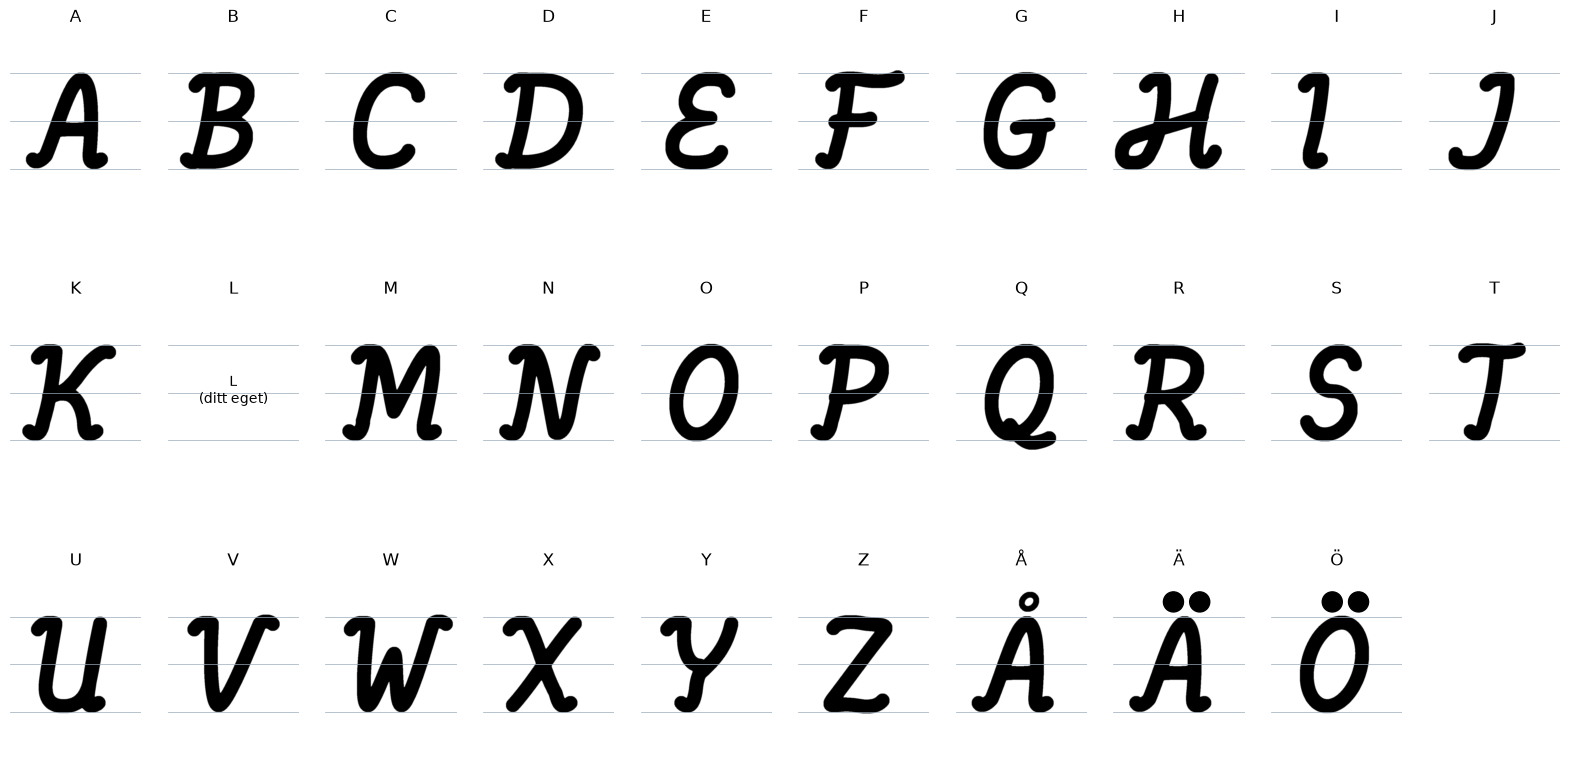
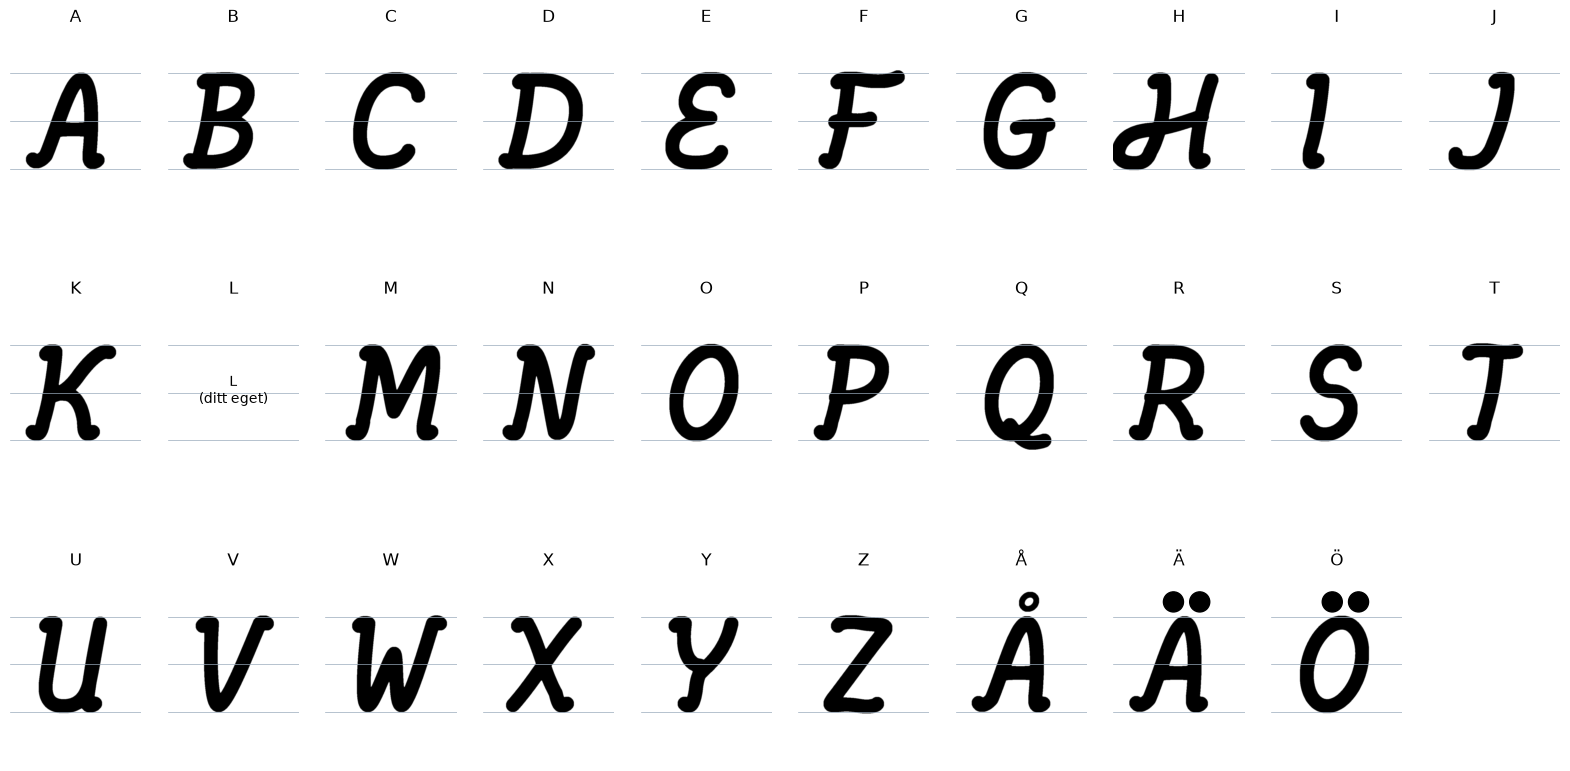
Mindre och mjukare avslutningar på alla versaler, rundare ögla på H
Claude-Session: https://claude.ai/code/session_01G3Fa1qrTuHzte3kfXkaDtX

diff --git a/bokstaver/versaler.py b/bokstaver/versaler.py
@@ -56,8 +56,8 @@ def stam(x, bage=0.03):
 
 # --- Svängar (i samma anda som ditt L och gemenernas fötter) -------------------
 def entre(x, y=HI):
-    """Insväng som på skrivstils-H: kommer in från vänster och går över toppen."""
-    return kedja((x - 0.7, y - 0.25), ((x - 0.57, y + 0.06), (x - 0.25, y + 0.06), (x, y)))
+    """Liten, diskret insväng upptill."""
+    return kedja((x - 0.38, y - 0.1), ((x - 0.3, y + 0.04), (x - 0.12, y + 0.04), (x, y)))
 
 
 def flick(x, y0=0.8, lut=0.0):
@@ -66,16 +66,16 @@ def flick(x, y0=0.8, lut=0.0):
 
 
 def svans(x, y0=0.8, lut=0.0):
-    """Kort, mjuk avslutning åt höger, som slutet på ditt lilla a."""
+    """Liten, mjuk avslutning åt höger, som slutet på ditt lilla a."""
     x1 = x + lut * (y0 - LO - 0.1)
-    return kedja((x, y0), ((x1, LO + 0.08), (x1 + 0.1, LO - 0.04), (x1 + 0.28, LO - 0.02)),
-                 ((x1 + 0.38, LO - 0.01), (x1 + 0.46, LO + 0.04), (x1 + 0.52, LO + 0.1)))
+    return kedja((x, y0), ((x1, LO + 0.06), (x1 + 0.08, LO - 0.03), (x1 + 0.2, LO - 0.02)),
+                 ((x1 + 0.28, LO - 0.01), (x1 + 0.34, LO + 0.02), (x1 + 0.38, LO + 0.07)))
 
 
 def kort_snirkel(x, y0=0.8):
-    """Kort, mjuk avslutning åt vänster (spegling av svans)."""
-    return kedja((x, y0), ((x, LO + 0.08), (x - 0.1, LO - 0.04), (x - 0.28, LO - 0.02)),
-                 ((x - 0.38, LO - 0.01), (x - 0.46, LO + 0.04), (x - 0.52, LO + 0.1)))
+    """Liten, mjuk avslutning åt vänster (spegling av svans)."""
+    return kedja((x, y0), ((x, LO + 0.06), (x - 0.08, LO - 0.03), (x - 0.2, LO - 0.02)),
+                 ((x - 0.28, LO - 0.01), (x - 0.34, LO + 0.02), (x - 0.38, LO + 0.07)))
 
 
 def kort_entre(x, y=HI):
@@ -154,7 +154,7 @@ def E():
 
 def F():
     return stapel(0.55, topp=False, fot="snirkel") + [
-            kedja((-0.1, HI - 0.2), ((0.05, HI + 0.08), (0.6, HI + 0.12), (1.2, HI)),
+            kedja((0.1, HI - 0.1), ((0.15, HI + 0.06), (0.6, HI + 0.12), (1.2, HI)),
                   ((1.8, HI - 0.1), (2.3, HI - 0.06), (2.6, HI + 0.12))),
             vag((0.3, 1.95), (1.75, 2.1), 0.07)]
 
@@ -177,21 +177,22 @@ def H_enkel():
 def H():
     """Skrivstils-H (din skiss): vänster stapel slutar i en ögla som blir ett
     stigande tvärstreck; höger stapel svänger ut åt höger nedtill."""
-    vanster = kedja((-0.15, HI - 0.25), ((-0.02, HI + 0.06), (0.32, HI + 0.08), (0.55, HI)),
+    vanster = kedja((0.17, HI - 0.1), ((0.25, HI + 0.04), (0.43, HI + 0.04), (0.55, HI)),
                     ((0.85, 2.7), (0.78, 1.3), (0.52, 0.7)),
-                    ((0.42, 0.25), (0.05, LO - 0.08), (-0.3, LO - 0.04)),
-                    ((-0.75, LO + 0.02), (-0.85, 1.1), (-0.3, 1.32)),
-                    ((0.3, 1.55), (1.2, 1.78), (2.42, 2.2)))
+                    ((0.46, 0.3), (0.2, LO - 0.08), (-0.15, LO - 0.06)),
+                    ((-0.62, LO - 0.04), (-0.95, 0.5), (-0.78, 1.0)),
+                    ((-0.62, 1.48), (-0.05, 1.6), (0.5, 1.64)),
+                    ((1.1, 1.72), (1.8, 1.95), (2.42, 2.2)))
     hoger = kedja((2.55, HI), ((2.38, 2.8), (2.35, 1.5), (2.42, 0.85)),
-                  ((2.48, LO + 0.05), (2.7, LO - 0.06), (2.92, LO)),
-                  ((3.08, LO + 0.05), (3.18, 0.5), (3.22, 0.72)))
+                  ((2.44, LO + 0.06), (2.52, LO - 0.03), (2.64, LO - 0.02)),
+                  ((2.72, LO - 0.01), (2.78, LO + 0.02), (2.82, LO + 0.07)))
     return [vanster, hoger]
 
 def I():
     return stapel(0.6, fot="flick")
 
 def J_():
-    return [kedja((0.9, HI - 0.2), ((1.1, HI + 0.08), (1.5, HI + 0.08), (1.75, HI)),
+    return [kedja((1.25, HI - 0.08), ((1.3, HI + 0.05), (1.5, HI + 0.08), (1.75, HI)),
                   ((1.95, 2.8), (1.75, 1.6), (1.62, 1.05)),
                   ((1.5, 0.35), (1.1, LO - 0.08), (0.7, LO - 0.06)),
                   ((0.35, LO - 0.04), (0.1, 0.3), (0.12, 0.62)))]
@@ -206,7 +207,7 @@ def M():
     """M i samma anda som skrivstils-H: insvängen går över toppen och direkt ner
     i diagonalen; vänster stapel hänger ner från toppen med en lätt böj."""
     v, h = 0.55, 3.1
-    over = kedja((-0.15, HI - 0.25), ((-0.02, HI + 0.06), (0.3, HI + 0.06), (v, HI)),
+    over = kedja((v - 0.38, HI - 0.1), ((v - 0.3, HI + 0.04), (v - 0.12, HI + 0.04), (v, HI)),
                  ((0.95, HI - 0.02), (1.45, 1.9), (1.75, 1.2)),
                  ((2.05, 1.9), (2.45, HI - 0.02), (2.8, HI)),
                  ((3.0, HI + 0.05), (3.2, 3.2), (h, 0.8)))
@@ -215,11 +216,11 @@ def M():
 def N():
     """N som M: insvängen går över toppen och ner i diagonalen."""
     v, h = 0.55, 2.5
-    over = kedja((-0.15, HI - 0.25), ((-0.02, HI + 0.06), (0.3, HI + 0.06), (v, HI)),
+    over = kedja((v - 0.38, HI - 0.1), ((v - 0.3, HI + 0.04), (v - 0.12, HI + 0.04), (v, HI)),
                  ((0.95, HI - 0.02), (1.7, 1.2), (2.05, LO + 0.05)),
                  ((2.25, LO - 0.06), (h, 0.4), (h, 1.2)),
-                 ((h, 2.4), (h + 0.05, HI + 0.05), (h + 0.35, HI + 0.04)),
-                 ((h + 0.48, HI + 0.03), (h + 0.56, HI - 0.03), (h + 0.6, HI - 0.12)))
+                 ((h, 2.4), (h + 0.03, HI + 0.04), (h + 0.2, HI + 0.04)),
+                 ((h + 0.28, HI + 0.03), (h + 0.33, HI - 0.0), (h + 0.36, HI - 0.05)))
     stam = kedja((v, HI), ((0.52, 2.7), (0.62, 1.5), (0.52, 0.8)))
     return [over, stam, kort_snirkel(0.52, 0.8)]
 
@@ -233,7 +234,7 @@ def P():
 
 def Q():
     return O() + [kedja((1.25, 0.65), ((1.65, 0.2), (2.0, -0.15), (2.4, -0.1)),
-                        ((2.65, -0.06), (2.85, 0.0), (3.0, 0.1)))]
+                        ((2.6, -0.07), (2.72, -0.05), (2.82, 0.0)))]
 
 def R_():
     return P() + [linje((1.05, 1.8), (2.0, 0.8), 0.06), flick(2.0, 0.8, 0.3)]
@@ -253,8 +254,8 @@ def S():
 
 
 def T():
-    return [kedja((0.0, HI - 0.18), ((0.12, HI + 0.08), (0.6, HI + 0.12), (1.2, HI + 0.02)),
-                  ((1.6, HI - 0.04), (1.95, HI - 0.04), (2.2, HI + 0.1))),
+    return [kedja((0.15, HI - 0.08), ((0.2, HI + 0.06), (0.6, HI + 0.12), (1.2, HI + 0.02)),
+                  ((1.6, HI - 0.04), (1.9, HI - 0.03), (2.1, HI + 0.04))),
             linje((1.3, HI), (1.3, 0.85), 0.1), snirkel(1.3, 0.85)]
 
 
@@ -270,7 +271,7 @@ def V():
     return [entre(0.3),
             kedja((0.3, HI), ((0.45, 2.3), (0.85, LO - 0.08), (1.2, LO)),
                   ((1.55, LO + 0.1), (2.0, 2.5), (2.3, HI)),
-                  ((2.42, HI + 0.12), (2.68, HI + 0.12), (2.85, HI - 0.02)))]
+                  ((2.36, HI + 0.07), (2.5, HI + 0.07), (2.6, HI + 0.0)))]
 
 def W():
     return [entre(0.25),
@@ -278,7 +279,7 @@ def W():
                   ((1.1, LO + 0.05), (1.38, 2.3), (1.55, 2.45)),
                   ((1.72, 2.3), (1.95, LO - 0.05), (2.25, LO)),
                   ((2.55, LO + 0.08), (2.8, 2.6), (2.95, HI)),
-                  ((3.07, HI + 0.12), (3.33, HI + 0.12), (3.5, HI - 0.02)))]
+                  ((3.01, HI + 0.07), (3.15, HI + 0.07), (3.25, HI + 0.0)))]
 
 def X():
     return [entre(0.3), vag((0.3, HI), (2.0, 0.8), 0.06), flick(2.0, 0.8, 0.45),
@@ -292,12 +293,12 @@ def Y():
             snirkel(1.25, 0.85)]
 
 def Z():
-    return [kedja((-0.05, HI - 0.2), ((0.1, HI + 0.08), (0.6, HI + 0.12), (1.2, HI)),
+    return [kedja((0.12, HI - 0.1), ((0.18, HI + 0.06), (0.6, HI + 0.12), (1.2, HI)),
                   ((1.7, HI - 0.08), (2.25, HI + 0.02), (2.12, HI - 0.3)),
                   ((1.6, 2.6), (0.9, 1.3), (0.45, 0.55)),
                   ((0.3, 0.28), (0.4, LO - 0.02), (0.72, LO)),
                   ((1.3, LO + 0.1), (1.7, LO - 0.1), (2.05, LO - 0.05)),
-                  ((2.3, LO - 0.03), (2.45, LO + 0.06), (2.55, LO + 0.2)))]
+                  ((2.22, LO - 0.03), (2.3, LO + 0.0), (2.35, LO + 0.06)))]
 
 PRICK_Y = VERSAL + 0.62   # prickarnas och ringens mitt ovanför versalhöjden
 PRICK_R = 0.42            # ytterradie: prickar och ring är lika stora (samma form i produktionen)
